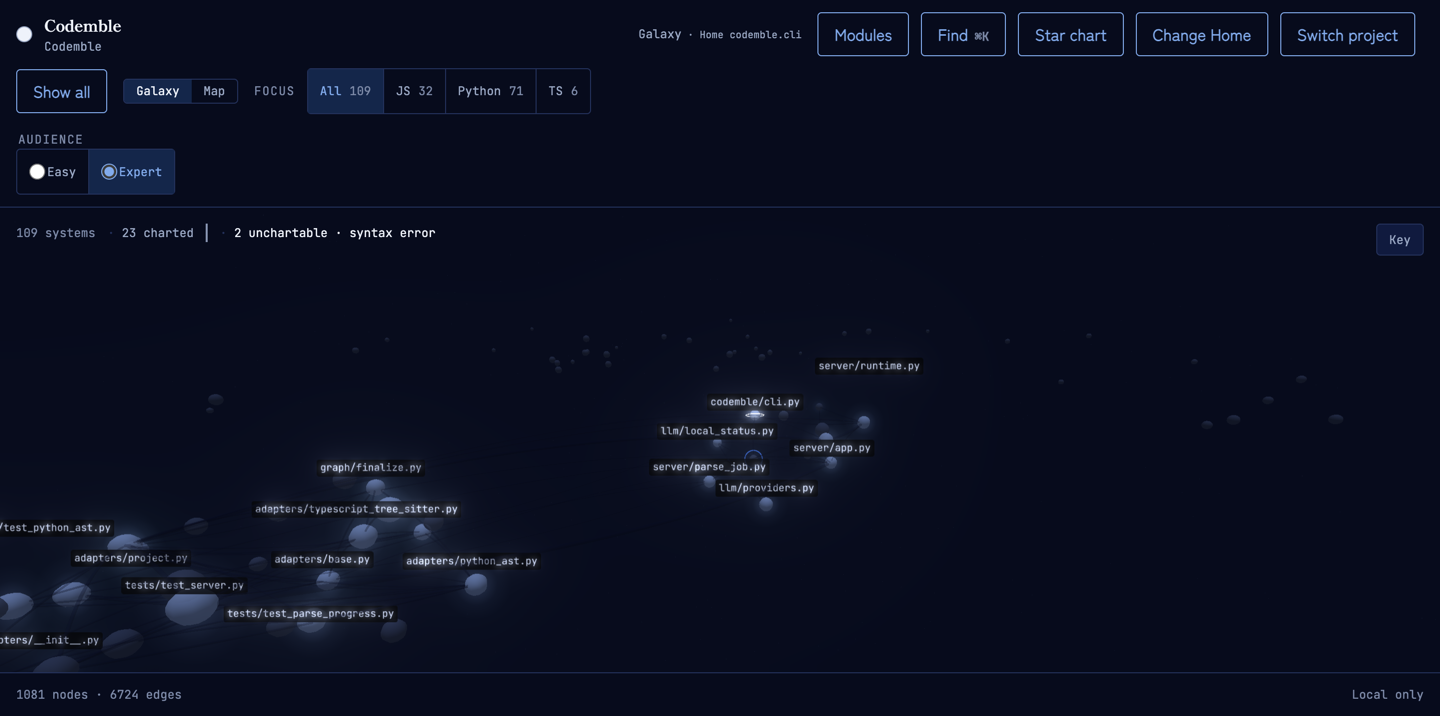
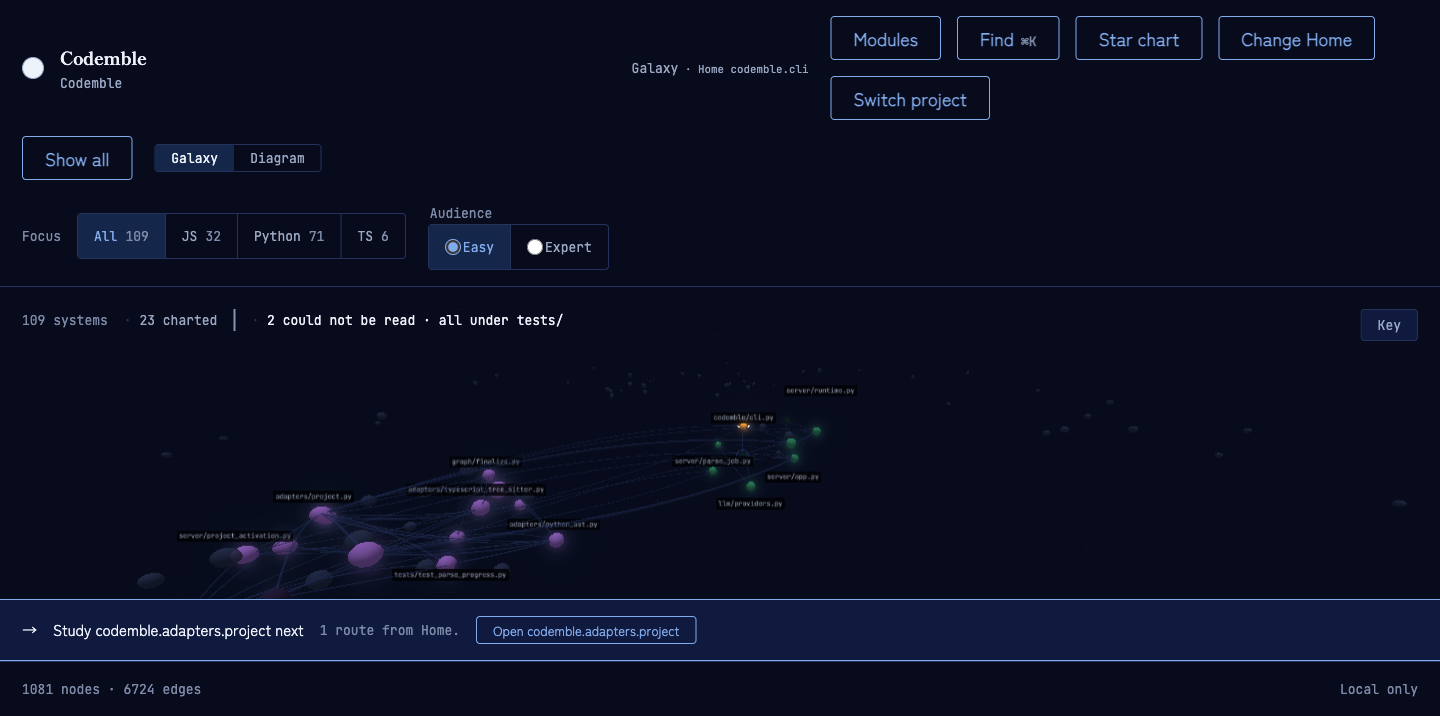
docs: sync README, docs site, changelog, and screenshots to v0.7.0
- documents the community colour families, the dedicated route ink, the
  counted unreached shelf, fit-width overview, and the Easy register in
  the README encoding table and docs-site galaxy page
- retakes the galaxy and system hero shots from the running build, so
  the constellations and hued planets the copy describes are the ones
  the images show; alt text updated to match
- adds docs/releases/v0.7.0.md with highlights, evidence, and known
  limits (procedural planet surfaces stay a Phase 3 decision)
- CHANGELOG gains a dated 0.7.0 section in Keep a Changelog form
- CLAUDE.md records the session, four Decision Log entries (hue means
  import community, route ink ordering, the unreached shelf, the
  guidance test penalty), the still-standing game-art Non-Goal, and the
  SVG var() gotcha
- version bumped to 0.7.0 across pyproject, codemble/__init__, both
  package.json files, and web/package-lock.json

Gates: 241 pytest, ruff clean, web check (12 contracts + build), astro
check 0 errors.

diff --git a/codemble/__init__.py b/codemble/__init__.py
@@ -1,4 +1,4 @@
 """Codemble — a learning game that turns the code AI wrote for you into a galaxy
 you light up by understanding it. See CLAUDE.md for the agent brief and roadmap."""
 
-__version__ = "0.6.4"
+__version__ = "0.7.0"

diff --git a/CHANGELOG.md b/CHANGELOG.md
@@ -5,6 +5,74 @@ Format: [Keep a Changelog](https://keepachangelog.com/en/1.1.0/) · Versioning: 
 
 ## [Unreleased]
 
+## [0.7.0] - 2026-07-22
+
+### Added
+- **Constellations you can tell apart.** Every parser-proven import community
+  now wears one of eight traditional Japanese colour families (seiji, fuji,
+  koke, asagi, toki, umenezumi, wakatake, kikyō), assigned deterministically
+  from the community id — same code, same sky, same colours. Galaxy stars keep
+  centrality as lightness inside the family hue, planets inherit their
+  system's family, and Architecture boxes tint toward it. Every hue is
+  lightness-capped beneath the unlit ceiling and the amber band is excluded
+  from the wheel, so a lit star stays the brightest object in the sky and
+  nothing unproven can read as understood. The Key gains a colour-family row.
+- **A counted shelf for unreachable modules.** On the Architecture map, modules
+  with no import route from Home fold away behind their exact count with a
+  **Show them** control (auto-folded above eight). On this repository that
+  turns a 1:3.2-tall drawing dominated by 80 test fixtures into a readable
+  connected core — with nothing hidden from the count and every module still
+  one click away.
+- **Class rings.** A structure the parser knows is a class wears a thin ring in
+  the system view — parser fact, not decoration.
+
+### Fixed
+- **Connections are visible.** Routes on both layers used to borrow the border
+  hairline at ~1.6:1 contrast — and the galaxy multiplied it to 32% opacity —
+  so the relationships the app teaches were its least visible marks. Both
+  layers now draw a dedicated route ink (4.0:1), arrowheads included, and a
+  *possible* relationship stays deliberately the more visible claim, dashed on
+  the map as before.
+- **The map's language stripe actually renders.** It set its colour through an
+  SVG presentation attribute, where `var()` is invalid, and silently fell back
+  to the box navy — the Key advertised Python/JS/TS colours the map never
+  drew. The stripe now paints through a style property.
+- **The nebula dawn no longer corrupts the lit system's name plate.** The
+  animation snapshotted one scale axis and restored all three from it, so the
+  celebration squashed the plate into a blurry square until a level change
+  rebuilt it. It now restores the full vector — the one bold moment ends
+  crisp.
+- **Escape steps back from anywhere on the Map.** The handler listened only
+  inside the stage, and the most common Easy path leaves focus on the page
+  body, so the documented recovery silently did nothing; the study exit also
+  said "Back to system" on the Diagram. Escape is now a window-level handler
+  (with dialog and typing guards) and the exit says "Back to the module".
+- **A resize cannot strand you in empty space.** Restored map viewports are
+  replayed only while they still show your focus; shrinking a desktop window
+  to phone width used to keep the desktop scroll and show empty layer bands.
+  Both the restore path and live resizes now re-centre on the parser-backed
+  target.
+- **Fit lands on something readable.** On tall drawings a true fit reached 7% —
+  a thumbnail with no names — so Fit now fits the width and lets the height
+  scroll when the whole shape would be unreadable, and keeps whole-shape fit
+  otherwise. The open Key also no longer covers the zoom controls, and the
+  region panel's actions no longer clip at desktop heights.
+- **Easy mode speaks its own register end to end.** "parser rank 0" became
+  "candidate 1", the checks header reads "Quiz · answers come from your code,
+  not AI", the lit celebration explains what the source hash means instead of
+  naming it, study metadata reads "What it is / Length / Evidence", and the
+  chrome attributes fixture errors to their shared directory ("2 could not be
+  read · all under tests/"). Expert keeps every precise term.
+- **Guidance stops sending beginners into tests first.** The nearest-unlit
+  ranking now charges test-scoped paths a bounded +1.5-hop penalty — a real
+  source module one hop farther wins the tie, an all-tests project is still
+  guided, and the displayed hop count stays the real one. On this repository
+  the second stop changed from `tests.test_python_ast` to
+  `codemble.adapters.project`.
+- **The study panel's connection diagram names its dots.** Six anonymous dots
+  used to decorate the labelled list below; each now carries its structure's
+  own (tail-truncated) name.
+
 ## [0.6.4] - 2026-07-21
 
 ### Fixed

diff --git a/docs/releases/v0.7.0.md b/docs/releases/v0.7.0.md
@@ -1,0 +1,64 @@
+# v0.7.0 — constellations you can tell apart
+
+Released 2026-07-22 · tag `v0.7.0` · frontend-only: parser, graph, checks,
+progress, and HTTP contracts are byte-unchanged from v0.6.4.
+
+This release implements all fourteen findings of a fresh evidence-based
+user-flow audit of the served v0.6.4 build (run as a first-time Easy learner on
+this repository at 1280/375/320), plus the approved design direction that came
+with it: **hue now answers "which part of the project is this?"**.
+
+## Highlights
+
+- **Community colour families (D1).** Each parser-proven import community wears
+  one of eight traditional Japanese hues — seiji, fuji, koke, asagi, toki,
+  umenezumi, wakatake, kikyō — deterministically from its community id. Stars
+  keep centrality as lightness within the family; planets inherit their
+  system's family; Architecture boxes tint toward it. All eight tokens are
+  lightness-tuned to the unlit ceiling's luminance (measured 8.1:1 on
+  `--cm-ground`, 7.0:1 on `--cm-ground-2` as legend swatches) while a lit
+  amber star stays ~54% brighter; the amber band is excluded from the wheel.
+  Amber keeps its monopoly on understanding, ruri on interaction, and
+  uncertainty keeps its own channel.
+- **Visible connections.** A dedicated route ink (4.0:1) on both layers
+  replaces the border hairline that made every edge near-invisible (the galaxy
+  additionally multiplied it to 32% opacity). Possible relationships remain
+  dashed on the map and deliberately the more visible claim.
+- **The unreached shelf (D3).** Architecture-map modules with no import route
+  from Home fold behind their exact count with a **Show them** control. On this
+  repository that removes 80 fixture/script boxes from the default geometry —
+  from a 7% unreadable Fit to a readable connected core — while every module
+  stays counted and reachable.
+- **Mechanical fixes caught by the audit:** the nebula dawn no longer squashes
+  the lit system's name plate (scale restored as a vector, not a scalar); the
+  map's language stripe renders (SVG `fill` attribute cannot resolve `var()`;
+  it now paints via style); Escape steps back on the Map from any focus
+  position; stale viewports re-centre on the focus after resizes; Fit
+  fits width on tall drawings; the Key no longer covers the zoom controls; the
+  region panel's actions no longer clip.
+- **Easy speaks Easy.** "candidate 1" (not "parser rank 0"), "Quiz · answers
+  come from your code, not AI", a lit celebration that explains invalidation
+  in plain words, "What it is / Length / Evidence" study labels, fixture
+  errors attributed to their directory, and guidance that charges test-scoped
+  paths a bounded +1.5-hop penalty so a learner's own code comes first.
+
+## Evidence
+
+- 241 pytest tests, `ruff check` clean, all 12 frontend contract checks green
+  (including the new `check_galaxy_effects.mjs`), production SPA rebuilt and
+  committed.
+- Every audit finding re-verified on a fresh first run of the rebuilt bundle:
+  before/after screenshots recorded in the audit report generated this
+  session.
+- App console: 0 errors, 0 warnings across the full flow.
+
+## Known limits
+
+- Communities beyond eight share hues (deterministically); the legend teaches
+  the encoding rather than indexing every community — the Modules sidebar is
+  the index.
+- Procedural planet surfaces ("almost real planets") remain a Phase-3
+  decision under the "no elaborate game art before the loop teaches well"
+  Non-Goal; this release ships hued bodies and class rings only.
+- The Phase 1 milestone still awaits human tester evidence (issue #13); this
+  release does not claim it.

diff --git a/docs-site/src/content/docs/the-galaxy.md b/docs-site/src/content/docs/the-galaxy.md
@@ -5,7 +5,7 @@ description: How your code becomes a sky — and why the camera stays on rails.
 
 ## Your code, mapped honestly
 
-![Codemble at galaxy level: 109 star systems parsed from real source, 23 of them charted and named by their file path, with the language focus buttons, a Key disclosure, and a notice that two files are unchartable because their parser reported a syntax error.](/Codemble/shots/galaxy.png)
+![Codemble at galaxy level: 109 star systems parsed from real source, 23 of them charted and named by their file path, constellations wearing their import-community colour families in traditional Japanese hues around an amber lit Home, with the language focus buttons, a Key disclosure, and a notice that two files could not be read — all under tests/.](/Codemble/shots/galaxy.png)
 
 The galaxy is not an artist's impression. Every visual property encodes a fact
 from the parsed structure of your code:
@@ -18,6 +18,7 @@ from the parsed structure of your code:
 | Edge between planets | A call (uncertain calls are labeled "possible call") |
 | Size | Lines of code |
 | Brightness and glow | How many distinct places call it (centrality) |
+| Colour family | Import community — modules that import each other share a hue |
 | Nebula tint | Language |
 | Lit amber / dim | Understood / not yet |
 | Drifting particles | A call the parser proved; possible calls stay still |
@@ -27,6 +28,17 @@ Nothing that is merely busy can outshine something you understand: the unlit
 brightness ramp stops below the amber a lit star uses. Brightness counts the
 distinct places that call a structure, not how many call sites they contain —
 a helper hammered in one loop is not more depended-on than a shared utility.
+
+Hue answers a different question: **which part of the project is this?** The
+parser proves import communities — groups of modules that import each other —
+and each community wears one of eight traditional Japanese colours (seiji,
+fuji, koke, asagi, toki, umenezumi, wakatake, kikyō), assigned
+deterministically from the community's own id: same code, same sky, same
+colours. Every hue is lightness-capped at the unlit ceiling, so a lit amber
+star remains the brightest object by a wide margin, and the amber band itself
+is excluded from the wheel so no community can ever read as "understood".
+Inside a system its planets inherit the family hue, with lightness still
+answering callers.
 
 ## While a large project loads
 
@@ -94,20 +106,28 @@ two tabs: *Architecture* lays your modules out by folder and by how far they sit
 from Home along import routes, and *Workflow* walks the call tree from your
 entrypoint. Both layouts are computed by the same parser-backed graph the galaxy
 draws — the map cannot show you a relationship the galaxy does not have. Modules
-with no import route from Home are placed in their own row and labelled, never
-guessed into position. Clicking anything in either layer opens the same study
-panel, and a lit system is amber in both.
+with no import route from Home are never guessed into position: when more than a
+handful exist they fold into a counted shelf — the note says exactly how many
+and **Show them** draws every one — so a project whose test fixtures outnumber
+its source keeps a readable connected core without hiding a single module from
+the count. Clicking anything in either layer opens the same study panel, and a
+lit system is amber in both. Architecture boxes carry their community's colour
+family and a language stripe, and routes are drawn in their own ink so a
+connection never disappears beside a box border.
 
 The Map opens at readable 100% on compact screens and centres Home or the
 selected target instead of shrinking every box into a whole-diagram thumbnail.
-Use **Fit** for that overview and the percentage button to return to 100%.
-Codemble remembers zoom and pan through fresh Map data and layer switches, but
-clears renderer-only view state when you switch projects. The Map needs no
-WebGL, so it still works where the galaxy cannot draw.
+**Fit** gives the overview: on a wide drawing it fits the whole shape, and on a
+tall one it fits the width so layers stay readable while the height scrolls,
+instead of landing on an unreadable thumbnail. The percentage button returns to
+100%. Codemble remembers zoom and pan through fresh Map data and layer
+switches, re-centres on your focus when a window resize would leave it staring
+at empty space, and clears renderer-only view state when you switch projects.
+The Map needs no WebGL, so it still works where the galaxy cannot draw.
 
 ## A region = one star system
 
-![One star system, codemble.server.app, with its functions and classes in call-depth orbits, the call edges between them, and a keyboard focus reticle around the focused structure.](/Codemble/shots/system.png)
+![One star system, codemble.server.app, its 31 functions and classes as planets in the system's own colour family, laid out in call-depth orbits with the call edges and drifting particles between them, and a keyboard focus reticle around the focused structure.](/Codemble/shots/system.png)
 
 A **region** is one module — the unit of checks, illumination, and progress.
 Change a file and only its region goes dim again; the rest of your sky stays lit.
@@ -144,10 +164,14 @@ Drifting particles travel a call edge the parser proved, below the galaxy level
 where call edges exist. A possible call stays still, so motion can never imply
 proof — and under `prefers-reduced-motion` nothing drifts at all.
 
-The legend in the corner names every encoding: size, brightness, amber for
-understood, the unchartable colour for syntax-error files, one swatch per
-language, and certain versus possible relationships. In Easy mode it says the
-same things in plain language.
+Certain connections are drawn in a dedicated route ink on both layers, distinct
+from panel rules and box borders, and a possible relationship is deliberately
+the *more* visible of the two — an unproven claim should never be the one you
+miss. The legend in the corner names every encoding: size, brightness, amber
+for understood, a corner-flag mark for syntax-error files, the colour-family
+row, one swatch per language, and certain versus possible relationships — and
+every swatch is drawn in the same ink the sky actually uses. In Easy mode it
+says the same things in plain language.
 
 ## Switching project and changing Home
 

diff --git a/CLAUDE.md b/CLAUDE.md
@@ -167,8 +167,36 @@ Polish, then the coordinated launch (Show HN / X; lit-galaxy GIF as hero).
 
 ## Current State **[AGENT-MAINTAINED]**
 
-**Current milestone: Phase 1 tester evidence** · Last updated: 2026-07-21 ·
-Session note: v0.6.4 closes all twenty findings of a fresh end-to-end user-flow
+**Current milestone: Phase 1 tester evidence** · Last updated: 2026-07-22 ·
+Session note: v0.7.0 implements all fourteen findings of a fresh evidence-based
+user-flow audit of the served v0.6.4 build (run as a first-run Easy learner on
+this repository at 1280/375/320, with before/after screenshots) plus the
+approved D1 design direction: parser-proven import communities now wear eight
+deterministic traditional Japanese colour families (galaxy stars, planets, and
+Architecture-box tints), lightness-capped beneath the unlit ceiling with the
+amber band excluded so understanding stays the brightest claim in the sky.
+Routes on both layers moved from the 1.6:1 border hairline to a dedicated
+4.0:1 route ink (possible relationships stay dashed and deliberately more
+visible); the Architecture map folds modules with no route from Home into a
+counted shelf behind a Show-them control; Fit fits width when whole-shape fit
+would be unreadable; and Easy guidance charges test-scoped paths a bounded
++1.5-hop penalty so a learner's own code outranks its test suite at equal
+distance. Mechanical fixes: the nebula dawn restores sprite scale as a vector
+(it squashed the lit system's name plate square), the map's language stripe
+paints via a style property (an SVG fill attribute cannot resolve var() and
+silently rendered navy), Escape on the Map is a window-level handler that
+works with focus on body, stale map viewports re-centre on the focus point on
+restore and on live resizes, the open Key stacks below the zoom controls, the
+region panel's actions no longer clip, study connection dots carry names, and
+the Easy register replaces parser vocabulary end to end ("candidate 1",
+"Quiz · answers come from your code, not AI", "What it is / Length /
+Evidence", fixture errors attributed "all under tests/"). Parser, graph,
+checks, progress, provider, and HTTP contracts are byte-unchanged; the suite
+grew a nebula-dawn scale-restore check plus community-colour, viewport, and
+guidance-penalty contract assertions (241 pytest, ruff clean, 12 frontend
+checks, rebuilt web_dist). Full planet realism explicitly remains a Phase 3
+decision under the game-art Non-Goal. The milestone does not advance: issue
+#13 still requires human tester evidence. Previously: v0.6.4 closes all twenty findings of a fresh end-to-end user-flow
 audit run against the served build on three real projects (Codemble, Golavo,
 FolioOrb) at 1280/375/320 px with a keyboard pass. The headline fix is a
 Correctness Contract one: a missed check printed the parser answer and its
@@ -576,6 +604,10 @@ shows lower repeated-commit work without changing derived values.
 | 2026-07-21 | The audience answer is stored per learner as well as per project (`learner.json` beside progress); a fresh bind seeds from it and skips the gate, while the header toggle still overrides one project | The gate asks who the *learner* is, but the answer lived only under the project key, so every new project re-asked an expert whether they were new to coding. The file carries no `schema_version`, which is what keeps recents from reading it as a project |
 | 2026-07-21 | Home calibration is a native modal sized to the viewport, grouped by the candidates' real top-level scope, with the candidate count stated and "Explore without Home" outside the scrolling list | It is the second step of the same required sequence as the audience gate and deserves the same shape. As a card capped to a share of the stage it showed one candidate of eleven with the escape hatch thousands of pixels below the fold, and a flat list put `tests/fixtures/...` beside the learner's entrypoint with nothing to tell them apart. Scope and rank are parser facts already in the payload; the leading group always opens so a project whose best candidate is rank 1 is never met by an all-collapsed list |
 | 2026-07-21 | Galaxy name plates use the same path-tail rule as map schema 3's `short_label`; the shared module index and the command palette use it too, and the palette's unfiltered order is Home → lit → centrality | Basenames collide hard in a Python project — every package carries an `__init__.py` — so identical plates named different modules, which is precisely the wrong a learner cannot detect, and the palette opened on a screen of indistinguishable rows |
+| 2026-07-22 | **Hue means import community.** Each parser-proven community takes one of eight traditional Japanese colour tokens (`--cm-com-0..7`) by `community id mod 8`; stars, planets and Architecture boxes all read the same arithmetic in `graphData.communityShade`. This amends the M2 encoding row: colour was "language", which is now the nebula/stripe channel only | Approved by UD. The sky had one hue for 109 systems, so nothing could be tracked without reading every plate — and the graph had proven communities since schema 5 that nothing rendered. Guardrails that keep the Correctness Contract intact: every token is lightness-tuned to `--cm-ink-2`'s luminance (0.389) so a lit star at 0.598 always wins, the kohaku band (~40°) is excluded so no community can read as "understood", a missing community id falls back to the old neutral ramp rather than borrowing a hue, and the mapping is pure arithmetic on graph truth so the same code always yields the same sky |
+| 2026-07-22 | Routes get their own ink (`--cm-route`, 4.0:1) on both layers, and it sits deliberately BELOW `--cm-route-possible` (6.4:1) | Edges borrowed `--cm-hairline`, the ink of box borders and panel rules, measuring 1.57:1 on the canvas ground — the relationships the product exists to teach were its least visible marks, which is the literal complaint that opened the audit. Ordering the two inks this way keeps the 2026-07-19 rule that an unproven claim must be the more visible one |
+| 2026-07-22 | Architecture-map modules with no import route from Home fold into a counted shelf behind an explicit control (auto-folded above 8), and Fit fits WIDTH when a whole-shape fit would land below 35% | On this repository 80 of 109 boxes are test fixtures and scripts, making the drawing 1:3.2 tall so the connected core fit at an unreadable 7%. Folding is view state, never truth: the note carries the exact count, **Show them** draws every one, and both surfaces still reach every module. Distinct from progressive reveal, which stays galaxy-only |
+| 2026-07-22 | Easy guidance charges test-scoped paths a bounded +1.5-hop penalty; the displayed hop count stays the real one | A CLI's nearest neighbour is usually its own test suite, so pure hop-distance sent a brand-new learner from Home straight into `tests/`. The penalty is bounded so a non-test module one hop farther wins while a distant one does not, and an all-tests project is still guided. Both inputs stay parser truth (the BFS count and the recorded file path); only the ranking key is biased, never the reported fact |
 
 ## Non-Goals — do NOT build (point here when asked)
 
@@ -588,7 +620,11 @@ shows lower repeated-commit work without changing derived values.
 - ❌ Accounts, cloud hosting, multi-user; share link waits for Phase 3
 - ❌ Extra quest types before Phase 3
 - ❌ GitHub-URL ingestion in v1
-- ❌ Elaborate game art before the loop teaches well
+- ❌ Elaborate game art before the loop teaches well — **still holds**: the
+  2026-07-22 visual pass shipped only encodings that carry parser facts
+  (community hue, class rings). Procedural planet surfaces, atmospheres and
+  rotation ("almost real planets, like a game") remain OUT until Phase 1
+  tester evidence lands, and would need their own Decision Log entry
 
 ## Gotchas
 
@@ -616,6 +652,11 @@ shows lower repeated-commit work without changing derived values.
 - **Canvas colours must be plain values, never `color-mix()`** — WebGL receives
   a custom property's authored text, so a computed token renders black. Add new
   canvas tokens through `readPalette`, which resolves them.
+- **`var()` never works in an SVG presentation attribute** — `fill="var(--x)"`
+  is invalid and falls back to the cascade *silently*, which is how the map's
+  language stripe rendered box-navy for a release while the legend advertised
+  three colours. Use `style={{ fill: … }}` (a CSS property) for any
+  token-driven SVG paint.
 
 ## Edge cases & limits
 

diff --git a/README.md b/README.md
@@ -34,7 +34,7 @@
 </p>
 
 <p align="center">
-  <img src="https://github.com/udhawan97/Codemble/raw/main/docs-site/public/shots/galaxy.png" alt="Codemble at galaxy level: 109 star systems parsed from real source, 23 of them charted and named by their file path, with the language focus buttons, a Key disclosure, and a notice that two files are unchartable because their parser reported a syntax error" width="960">
+  <img src="https://github.com/udhawan97/Codemble/raw/main/docs-site/public/shots/galaxy.png" alt="Codemble at galaxy level: 109 star systems parsed from real source, 23 charted and named by file path, constellations wearing their import-community colour families in traditional Japanese hues around an amber lit Home, with language focus buttons, a Key disclosure, and a notice that two files could not be read — all under tests/" width="960">
 </p>
 
 <p align="center"><sub>
@@ -116,7 +116,7 @@ of your own code becomes a sky you understand.
 ## What it looks like
 
 <p align="center">
-  <img src="https://github.com/udhawan97/Codemble/raw/main/docs-site/public/shots/system.png" alt="A single star system, codemble.server.app, showing its functions and classes in call-depth orbits with the call edges between them" width="900">
+  <img src="https://github.com/udhawan97/Codemble/raw/main/docs-site/public/shots/system.png" alt="A single star system, codemble.server.app, its functions and classes as planets in the system's own colour family, in call-depth orbits with the call edges between them" width="900">
 </p>
 
 <p align="center"><sub>
@@ -204,6 +204,7 @@ You can also switch project or change Home without leaving the app.
 | A route or edge | An import or call; approximate calls are labeled **possible** |
 | Size | Lines of code |
 | Brightness and glow | How many **distinct** structures call it |
+| Colour family | Import community — modules that import each other share one of eight traditional Japanese hues |
 | Nebula tint | Language, at galaxy level |
 | Orbit ring | Call depth — the inner ring runs first |
 | Drifting particles | A call the parser proved; a possible call stays still |
@@ -211,9 +212,13 @@ You can also switch project or change Home without leaving the app.
 
 Understanding owns the top of the brightness range: the unlit ramp stops below
 the amber a lit star uses, so a busy module you have not proven can never
-outshine one you have. Pass a region's checks and that system plays a short
-amber "nebula dawn" — after the light is already saved, so the animation marks
-a fact rather than delivering one.
+outshine one you have — every community hue is lightness-capped beneath it, and
+the amber band is excluded from the community wheel entirely. Pass a region's
+checks and that system plays a short amber "nebula dawn" — after the light is
+already saved, so the animation marks a fact rather than delivering one. On the
+flat Map, modules with no import route from Home fold into a counted shelf
+(**Show them** draws every one), so test scaffolding never buries the connected
+core it cannot reach.
 
 Python-only, JavaScript-only, TypeScript-only, and mixed projects share the same
 graph contract. Language focus changes only what you are looking at; it never